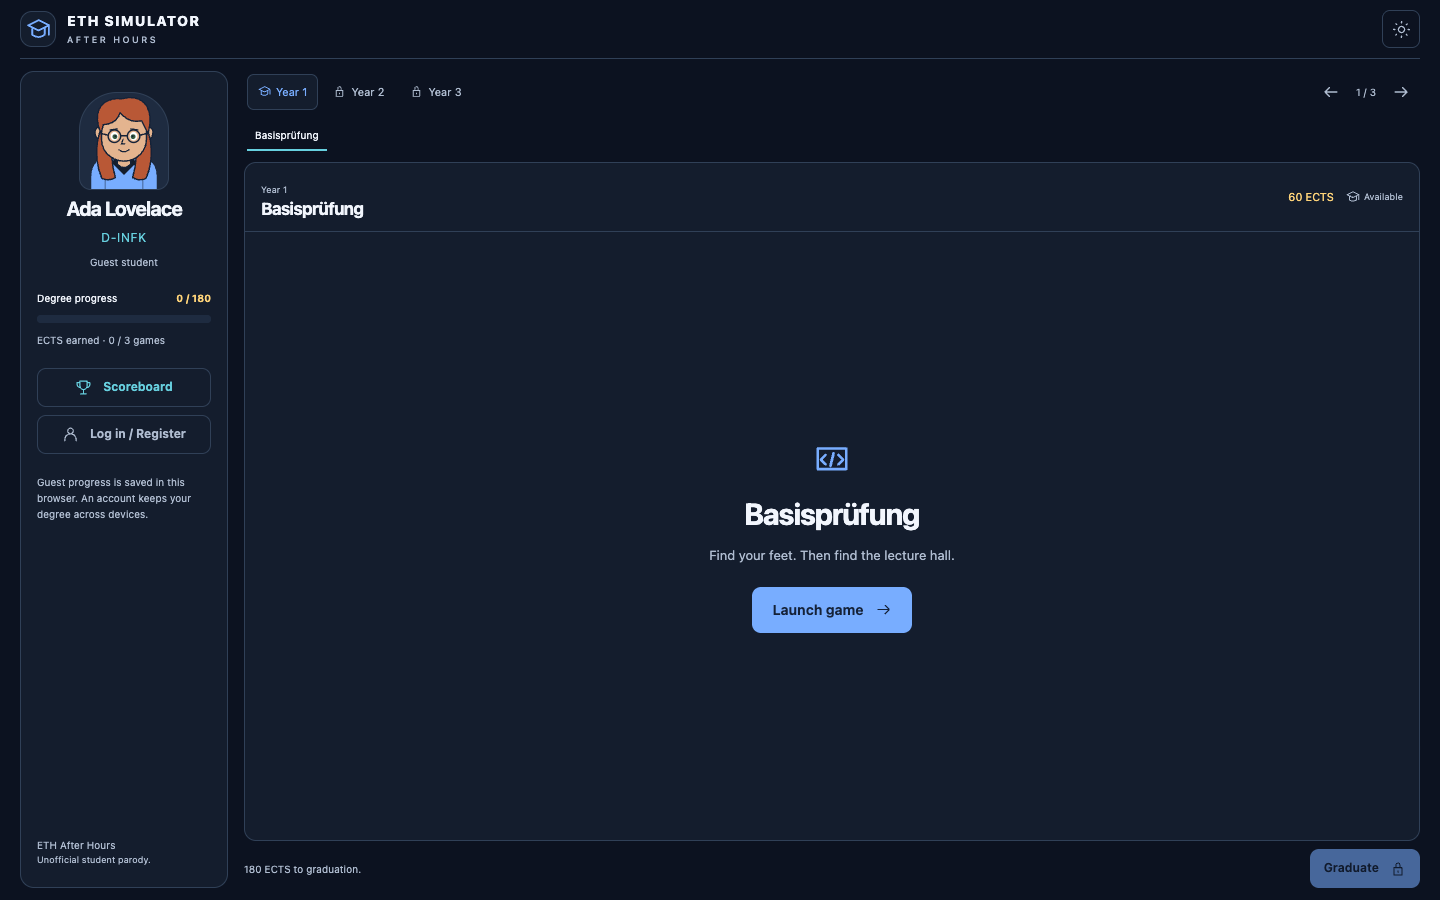
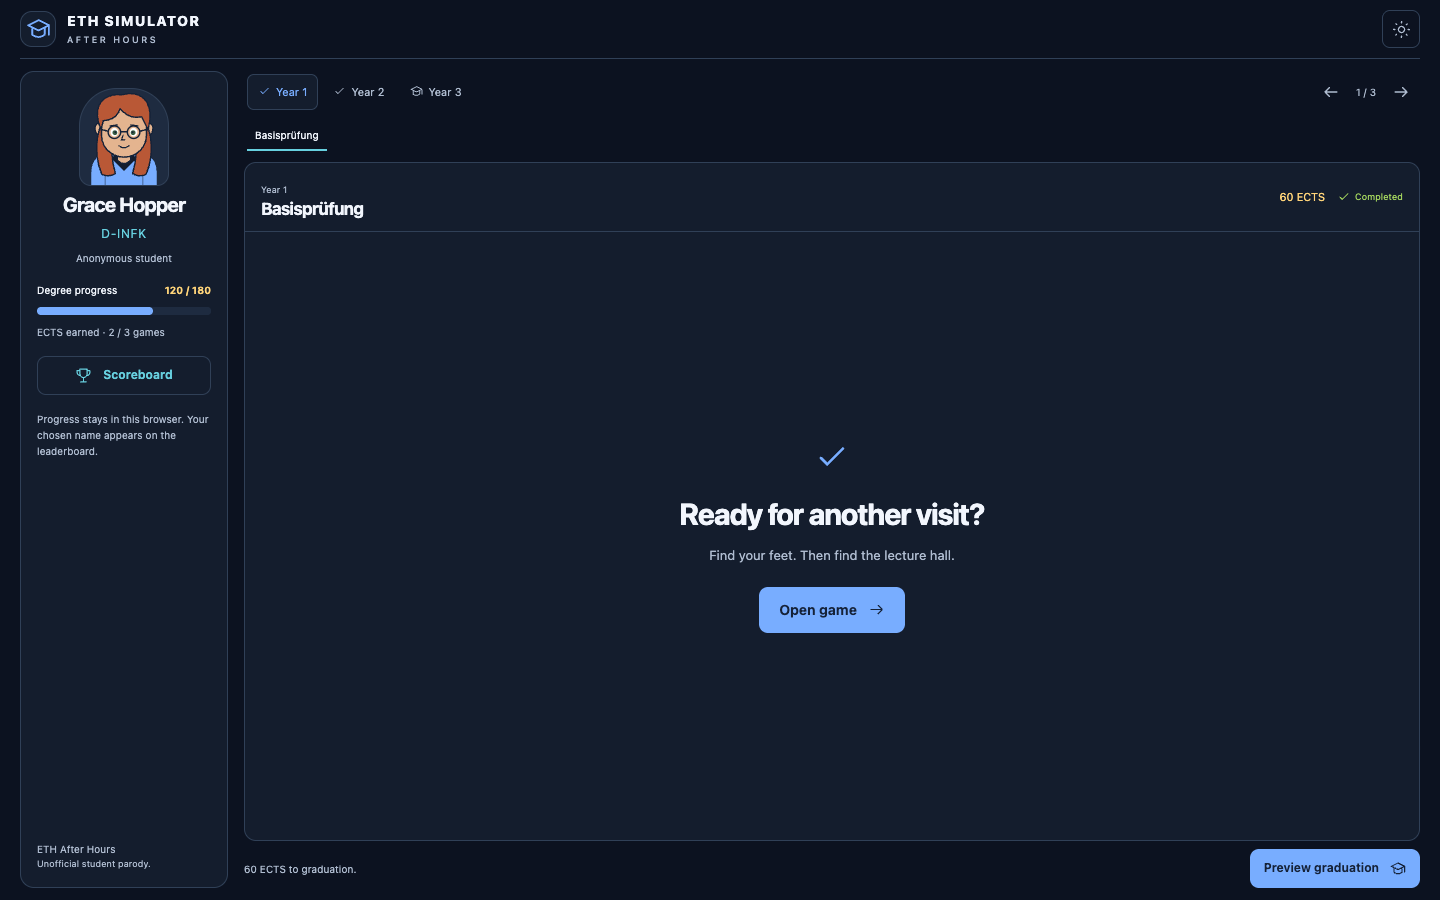
docs: update README for anonymous players and the graduation diploma
Main replaced accounts with anonymous player IDs and added the diploma
screen (#27). Refresh the screenshots from the new shell, add the
admission animation and diploma, and rewrite the accounts section,
API table, diagram labels and test counts to match.

diff --git a/README.md b/README.md
@@ -13,7 +13,7 @@ Create a student, survive the **Basisprüfung** by shooting exam questions out o
 ![FastAPI](https://img.shields.io/badge/FastAPI-Python%203.12-009688?logo=fastapi&logoColor=white)
 ![Redis 8](https://img.shields.io/badge/Redis-8-DC382D?logo=redis&logoColor=white)
 ![PostgreSQL 17](https://img.shields.io/badge/PostgreSQL-17-4169E1?logo=postgresql&logoColor=white)
-![Tests](https://img.shields.io/badge/tests-362%20passing-2EA043)
+![Tests](https://img.shields.io/badge/tests-395%20passing-2EA043)
 
 <img src="docs/readme/shooter-gameplay.gif" width="820" alt="The finger-gun shooter: a tracked hand skeleton aims a crosshair at exam questions and deadlines flying out of a neon exam hall" />
 
@@ -34,7 +34,7 @@ Around that moment we built a whole (very unofficial) degree:
 | 🧑🎓 **Make it yours** | Build a student in the character creator. Take a photo and the game picks your colours: skin tone is measured on your device, hair and eyes by a vision model. |
 | 🔫 **Year 1: Basisprüfung** | The finger-gun shooter, with hand tracking on our own server (MediaPipe), a neon hand skeleton, combos and a warm-up that teaches the gesture in three shots. |
 | 🎰 **Year 2: Casino night** | **Galton Blackjack.** Every card becomes balls that fall through a Galton board. Overshoot the normal curve and you bust; land on it three times and it's blackjack. We tuned it with a simulation until the odds matched real blackjack. |
-| 🏆 **Graduate** | Earn ECTS, climb the scoreboard and keep your degree across devices with an account. You can also play as a guest. |
+| 🏆 **Graduate** | Earn ECTS, open your diploma and climb the scoreboard. No sign-up and no password: every browser gets an anonymous player ID. |
 
 > **The 10-second judge test:** hold up a finger gun. The skeleton snaps onto your hand, the crosshair follows your finger, and the first paper shatters. That's the moment we built everything else around.
 
@@ -44,11 +44,11 @@ Around that moment we built a whole (very unofficial) degree:
 
 <table>
 <tr>
-<td width="50%"><img src="docs/readme/landing.png" alt="Landing page: ETH Simulator, big ambitions, very little free time" /><br/><sub><b>Admissions open.</b> Start as a guest in one click, no account needed.</sub></td>
+<td width="50%"><img src="docs/readme/landing.png" alt="Landing page: ETH Simulator, big ambitions, very little free time" /><br/><sub><b>Admissions open.</b> One click to start. No account, no password.</sub></td>
 <td width="50%"><img src="docs/readme/character-builder.png" alt="Character builder with a live student ID preview" /><br/><sub><b>Meet your future self.</b> Live student-ID preview, colour presets, and an optional photo assist.</sub></td>
 </tr>
 <tr>
-<td><img src="docs/readme/acceptance-letter.png" alt="Personalised acceptance letter" /><br/><sub><b>You're in.</b> A personalised acceptance letter from the Office of Questionable Decisions.</sub></td>
+<td><img src="docs/readme/admission-flow.gif" alt="Animated admission: the student ID is issued, then the acceptance letter types itself out" /><br/><sub><b>You're in.</b> Your student ID is issued, then the acceptance letter types itself out. It's skippable and respects <code>prefers-reduced-motion</code>.</sub></td>
 <td><img src="docs/readme/campus-hub.png" alt="Degree hub with years, ECTS progress and the next minigame" /><br/><sub><b>The degree hub.</b> Three years, 180 ECTS. Each year unlocks once the last one is done.</sub></td>
 </tr>
 <tr>
@@ -60,8 +60,8 @@ Around that moment we built a whole (very unofficial) degree:
 <td><img src="docs/readme/blackjack-bust.jpg" alt="Galton Blackjack: a red ball above the curve means bust" /><br/><sub><b>Bust!</b> A ball stacks above the curve and turns red. The dealer has a line for that.</sub></td>
 </tr>
 <tr>
-<td><img src="docs/readme/scoreboard.png" alt="Student scoreboard dialog" /><br/><sub><b>Scoreboard.</b> The top 100 accounts, ranked by ECTS.</sub></td>
-<td><img src="docs/readme/light-theme.png" alt="The degree hub in the light theme" /><br/><sub><b>Light and dark themes</b>, keyboard accessible, with a skip link and ARIA labels throughout.</sub></td>
+<td><img src="docs/readme/diploma.png" alt="The game diploma: Diploma of determined survival with avatar, ECTS and completed years" /><br/><sub><b>Your diploma.</b> The "Diploma of determined survival", with your avatar, ECTS, years and minigames.</sub></td>
+<td><img src="docs/readme/scoreboard.png" alt="Student scoreboard dialog" /><br/><sub><b>Scoreboard.</b> The top 100 players, ranked by ECTS. Light and dark themes, a skip link and ARIA labels throughout.</sub></td>
 </tr>
 </table>
 
@@ -78,8 +78,8 @@ Around that moment we built a whole (very unofficial) degree:
 |---|---|
 | **Originality** | Shooting with a bare-hand finger gun, no controller and no install. Blackjack rebuilt around the normal distribution, the one curve every ETH student meets in their first year. |
 | **Technical depth** | A real-time computer-vision pipeline over a WebSocket, with our own gesture recognizer that copes with MediaPipe's failure modes. A simulation-balanced game. An AI gateway that cannot spend credits by accident. Details in the [engineering deep dive](#engineering-deep-dive). |
-| **Completeness** | Onboarding → character → Year 1 → Year 2 → scoreboard all work end to end, with guest mode, accounts and a production Docker stack. Every screenshot in this README comes from the running app. |
-| **Quality** | 362 automated tests (232 backend, 130 frontend), four required CI checks, CD to GHCR, and hardening against malformed camera frames that would otherwise crash the server. |
+| **Completeness** | Onboarding → character → admission → Year 1 → Year 2 → diploma → scoreboard all work end to end, with server-side progress for anonymous players and a production Docker stack. Every screenshot in this README comes from the running app. |
+| **Quality** | 395 automated tests (244 backend, 151 frontend), four required CI checks, CD to GHCR, and hardening against malformed camera frames that would otherwise crash the server. |
 | **Design** | One visual language from landing page to casino table, light and dark themes, accessible controls, and a "juicy" shooter: muzzle flash, shattering papers, a backdrop that reacts to every shot. |
 
 ---
@@ -103,16 +103,16 @@ flowchart LR
 
     subgraph Server["FastAPI (one origin, one uvicorn worker)"]
         direction TB
-        API["/api routers<br/>accounts · runs · leaderboard<br/>story · avatar · health"]
+        API["/api routers<br/>players · runs · leaderboard<br/>story · avatar · health · config"]
         CV["/api/cv/stream WebSocket<br/>MediaPipe HandLandmarker<br/>+ gesture.py"]
         AI["app/ai.py<br/>the only OpenAI gateway"]
     end
 
-    PG[("PostgreSQL 17<br/>users · sessions<br/>profiles · progress")]
+    PG[("PostgreSQL 17<br/>players · profiles<br/>completions")]
     RD[("Redis 8<br/>runs · leaderboard<br/>AI cache · budget")]
     OAI(["OpenAI<br/>vision · text · TTS<br/>moderation"])
 
-    Shell -- "fetch /api (cookie + CSRF)" --> API
+    Shell -- "fetch /api (anonymous player UUID)" --> API
     L1 <-- "binary JPEG ⇄ JSON aim/shots" --> CV
     API --> PG
     API --> RD
@@ -242,11 +242,15 @@ flowchart LR
 - **Privacy by design in the photo assist.** Skin tone is measured *in the browser* from three skin patches inside the face oval, using CIE L\* lightness (webcam colour casts make hue unreliable). One still of at most 512 px is sent, only on an explicit click, to pick hair and eye colours from the presets. It costs about $0.0002 per photo and is never stored or logged.
 - **Story engine.** Advisor dialogue packs (Structured Outputs), a personal epilogue and rector-voiced TTS narration are built and tested behind the same gateway, with free name moderation in `live` mode.
 
-### 6. Accounts done properly
+### 6. Progress without sign-up friction
 
-- Passwords hashed with **Argon2** (`pwdlib`). Logins for unknown users still verify against a dummy hash, so response timing doesn't reveal which usernames exist.
-- **Opaque session tokens**, stored only as an HMAC-SHA256 hash, in `HttpOnly`, `SameSite=Lax` cookies (`Secure` in production). Sessions rotate on login and register.
-- **CSRF protection.** Every state-changing request needs an `X-CSRF-Token` header that matches the session, compared in constant time (`hmac.compare_digest`).
+At a booth, a login form costs players. Each browser gets a random **player UUID** in `localStorage`, and the server keys profiles, completions and graduation by it ([#27](https://github.com/DEOIST/viscon26-main/pull/27)).
+
+- **The server enforces the rules.** A year unlocks only when every game in the earlier years is complete. Placeholders can't award ECTS. Graduation needs all three years. A display name never grants access to a run.
+- **Safe under concurrency.** Completions and graduation take a per-player row lock (`SELECT … FOR UPDATE`) and are idempotent, so double clicks and retries can't double-award ECTS.
+- **Zero-downtime migration.** An additive migration copies the earlier account records into the new tables without touching the old ones.
+- **Credit-spending guard.** The vision endpoint rejects requests whose `Origin` isn't on the allow-list, so another site can't spend our OpenAI budget through a player's browser.
+- **Diploma preview.** `GRADUATION_PREVIEW` (exposed at `GET /api/config`) lets the booth show the diploma early. It's UI-only and never completes games or changes results.
 - `Cache-Control: no-store` on every API response, `X-Content-Type-Options: nosniff`, and no Swagger UI or OpenAPI schema in production. Redis and Postgres outages return a readable 503, not a stack trace.
 
 ---
@@ -255,11 +259,11 @@ flowchart LR
 
 | Layer | Choice | Why |
 |---|---|---|
-| Outer shell | **React 19 + TypeScript**, Vite, Redux Toolkit | Menus, onboarding and the hub are classic UI. The degree state lives in one store, persisted for guests and synced to the server for accounts |
+| Outer shell | **React 19 + TypeScript**, Vite, Redux Toolkit | Menus, onboarding and the hub are classic UI. The degree state lives in one store, mirrored to the server by an anonymous player ID |
 | Game engine | **Phaser 4** (WebGL, Canvas fallback) | One 2D engine for both games. The shooter fakes depth with projection, scale, draw order and haze, so it needs no 3D engine and no extra GPU load next to the camera |
 | Computer vision | **MediaPipe HandLandmarker** (Python), Pillow, NumPy | 21 landmarks per hand at about 10 ms per frame on a CPU, with our own geometry on top |
 | Backend | **FastAPI** + Pydantic v2 | A typed contract, mirrored in TypeScript (`schemas.py` ↔ `CommonInt.ts`), with camelCase on the wire |
-| Accounts | **PostgreSQL 17**, SQLAlchemy 2, Argon2 | Relational data (users, sessions, profiles, completions) |
+| Player progress | **PostgreSQL 17**, SQLAlchemy 2 | Relational data (players, profiles, completions) with row-level locks |
 | Game data & cache | **Redis 8** (AOF) | Runs, a sorted-set leaderboard, the AI cache, the daily budget and dead-key flags |
 | AI | **OpenAI** (vision, Structured Outputs, TTS, moderation) | Backend only, cached and capped, with a fallback for everything |
 | Tests | pytest, fakeredis, pytest-socket · vitest, Testing Library, jsdom | Zero network and zero credits, by construction |
@@ -284,8 +288,8 @@ flowchart LR
 
 | | |
 |---|---|
-| **Backend tests** | 232 passing (accounts, runs, endings, leaderboard, story, AI gateway, moderation, CV contract, gesture replays, real-model checks) |
-| **Frontend tests** | 130 passing across 18 files (blackjack rules, depth projection, hit tests, scoring, spawn, `FramePacer`, `SwitchableInput` lifecycle, character builder, progression) |
+| **Backend tests** | 244 passing (players, runs, endings, leaderboard, story, AI gateway, moderation, CV contract, gesture replays, real-model checks) |
+| **Frontend tests** | 151 passing across 23 files (blackjack rules, depth projection, hit tests, scoring, spawn, `FramePacer`, `SwitchableInput` lifecycle, character builder, admission flow, diploma, progression) |
 | **Protected `main`** | Every change goes through a PR with four required checks, squash-merged ([docs/BRANCH_RULES.md](docs/BRANCH_RULES.md)) |
 | **Testing the camera without a camera** | In a headless browser, Playwright swaps `getUserMedia` for a canvas stream of a hand photo, so the real pipeline (WebSocket, MediaPipe, gesture engine, scene) runs end to end. The GIF at the top was recorded this way |
 
@@ -298,8 +302,8 @@ Interactive docs at `http://localhost:8000/docs` in development (disabled in pro
 | Area | Endpoints |
 |---|---|
 | Health | `GET /api/health` (no dependencies) · `GET /api/db-health` |
-| Accounts | `GET /api/session` · `POST /api/register` · `POST /api/login` · `POST /api/logout` · `GET`/`PUT /api/profile` · `GET /api/progress` · `POST /api/completions/{game_id}` · `POST /api/graduation` · `GET /api/scoreboard` |
-| Avatar AI | `POST /api/avatar/suggestion` (CSRF-protected, one still) |
+| Players | `GET`/`PUT /api/players/{id}` · `POST /api/players/{id}/completions/{game_id}` · `POST /api/players/{id}/graduation` · `GET /api/scoreboard` · `GET /api/config` |
+| Avatar AI | `POST /api/avatar/suggestion` (Origin-checked, one still) |
 | Computer vision | `GET /api/cv/status` · `WS /api/cv/stream` |
 | Runs and story | `POST /api/runs` · `GET /api/runs/{id}` · `POST …/scores` · `POST …/graduate` · `POST …/dialogue` · `POST …/epilogue` · `POST …/epilogue/speech` · `GET /api/leaderboard` · `GET /api/leaderboard/endings` |
 
@@ -322,7 +326,7 @@ make check                            # tsc, prettier, vitest, ruff, pytest. Run
 make smoke                            # read-only end-to-end probe of a running app
 ```
 
-`make dev` needs Postgres for accounts: `docker compose up -d db` starts one on `127.0.0.1:5433`, which the backend's defaults already point at (or set `DATABASE_URL`). Redis is optional in development: without `REDIS_URL` the backend uses an in-process fakeredis. `AI_MODE` defaults to `off`, so running the game never spends OpenAI credits. Set it in `backend/.env` (see [`backend/.env.example`](backend/.env.example)).
+`make dev` needs Postgres for player progress: `docker compose up -d db` starts one on `127.0.0.1:5433`, which the backend's defaults already point at (or set `DATABASE_URL`). Redis is optional in development: without `REDIS_URL` the backend uses an in-process fakeredis. `AI_MODE` defaults to `off`, so running the game never spends OpenAI credits. Set it in `backend/.env` (see [`backend/.env.example`](backend/.env.example)).
 
 **Demo tips:** light from the front, hand 40–80 cm from the camera, thumb pointing at the ceiling. Press **C** to recalibrate the aim, **M** to switch to the mouse, and **Enter** to skip the warm-up.
 
@@ -347,8 +351,8 @@ docs/                    Game design, architecture, CV deep dive, stack, decisio
 
 ## What's next
 
-- **Year 3.** The third minigame slot is wired into the hub and waiting for its game (the shell shows it as locked).
-- **The story in the new shell.** The advisor dialogue, AI epilogue and rector narration are built and tested in the backend. The next step is mounting them in the new shell's graduation flow.
+- **Year 3.** The third minigame slot is wired into the hub and waiting for its game. Today it holds a preview component that awards no ECTS.
+- **The story in the new shell.** The advisor dialogue, AI epilogue and rector narration are built and tested in the backend. The next step is adding the AI epilogue and narration to the new diploma screen.
 - **Archetype perks.** The Gamer and ASVZ-athlete perks already exist in the shooter's config and the engine's `settings` message. Next we expose archetypes in the character builder.
 - **Per-player box calibration** for the hand skeleton (the protocol message already exists), plus sound and hit-stop for the shooter.
 
